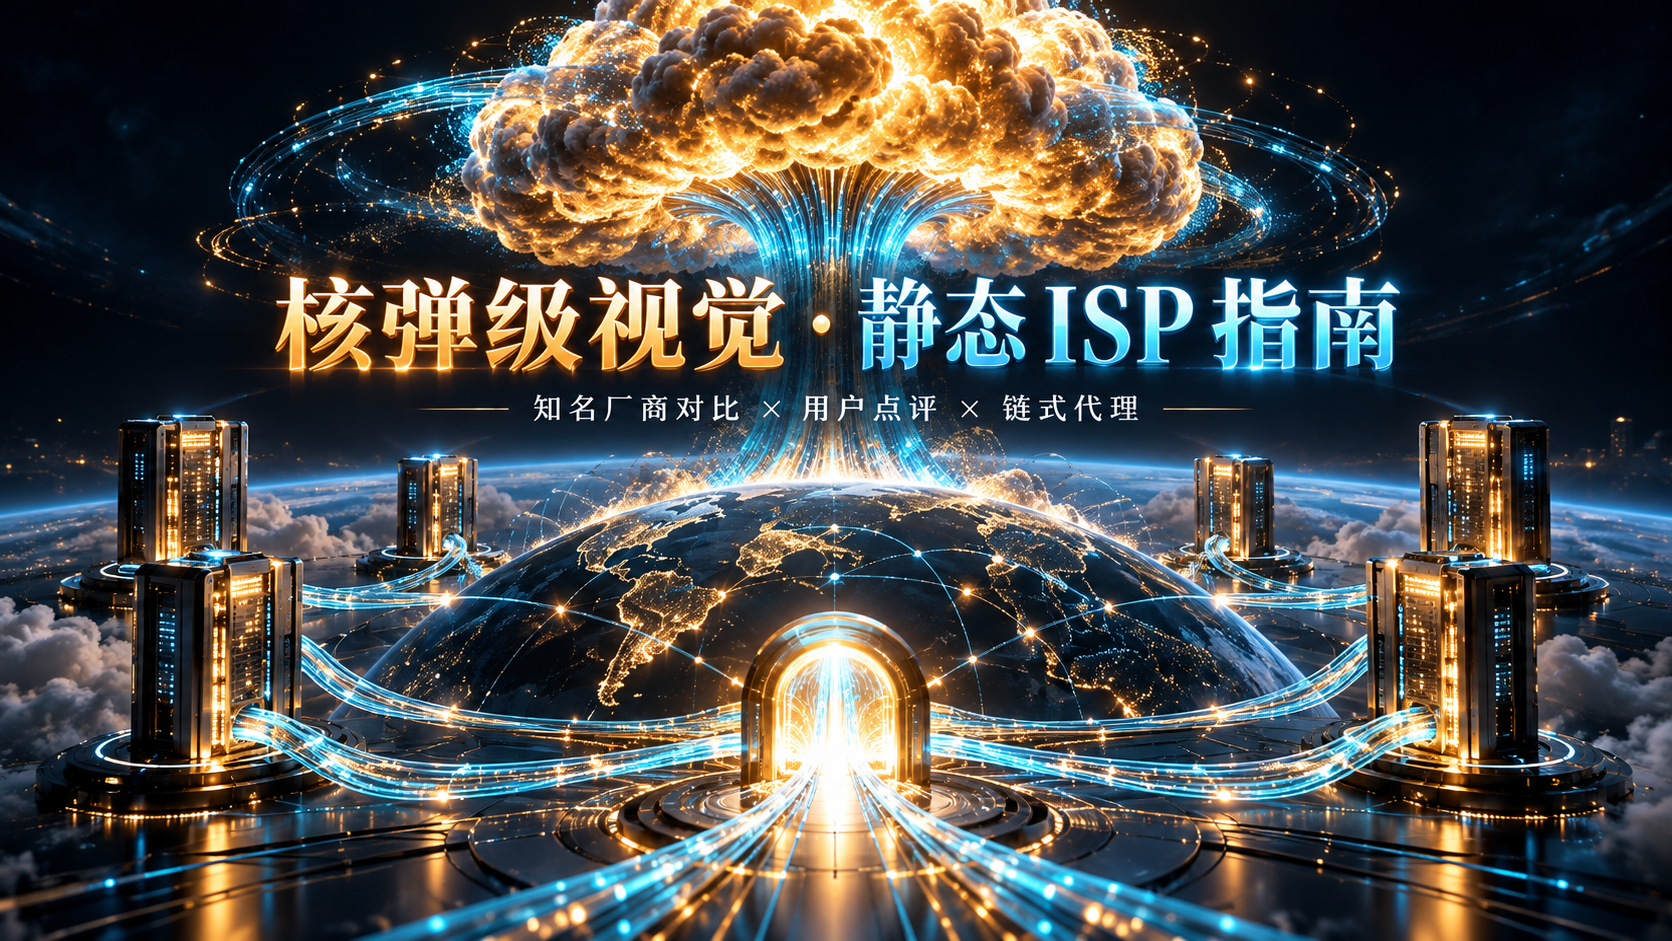
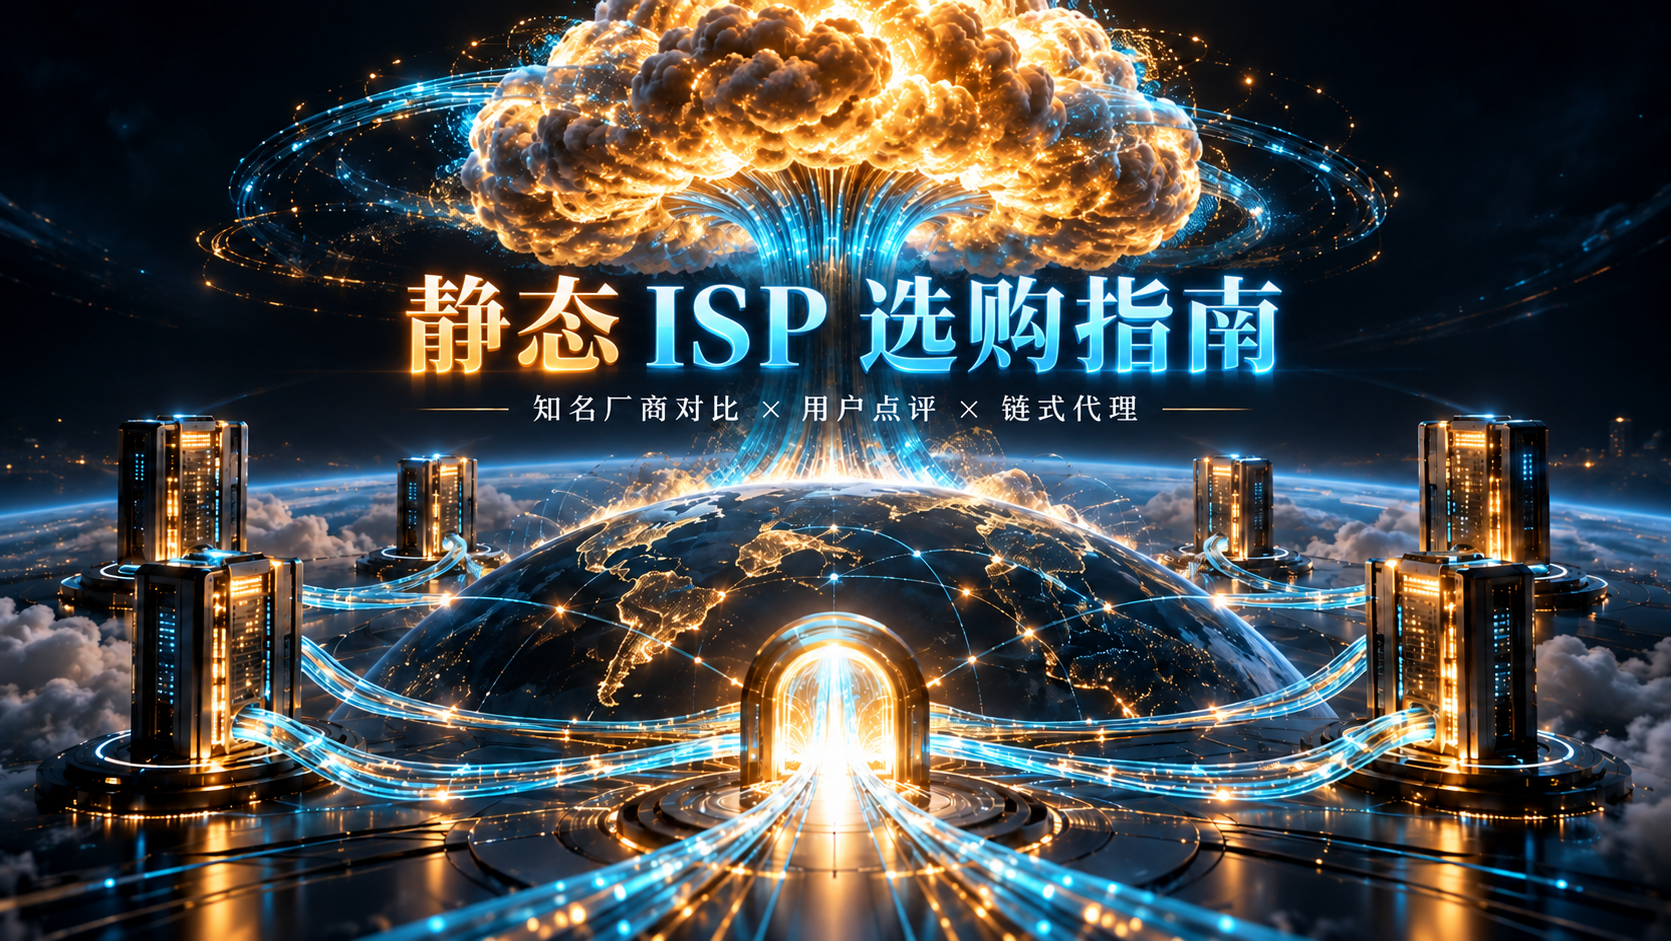
Remove literal visual slogan from title, description and cover

diff --git a/assets/PROMPTS.md b/assets/PROMPTS.md
@@ -4,7 +4,9 @@
 
 ## isp-hero.png
 
-> Use case: ads-marketing / stylized-concept. Create an original luxurious cinematic widescreen GitHub README cover for a Chinese static ISP comparison repository. Landscape 16:9. A monumental abstract digital mushroom-cloud-shaped energy bloom, symbolic nuclear-scale visual impact, made entirely of molten amber fiber-optic particles and electric cyan data ribbons above a dark obsidian holographic globe. No real weapons, no destruction, no people. Six luminous server monoliths sit around the globe linked by precise glasslike fiber cables, a single dazzling exit portal in the foreground. Ultra detailed premium 3D editorial art, volumetric light, black navy background, amber and icy cyan, spectacular but beautifully composed, high contrast, generous breathing room. Render these exact Chinese headline words legibly as a large tasteful integrated editorial title: '核弹级视觉 · 静态 ISP 指南'. Small subtitle exactly: '知名厂商对比 × 用户点评 × 链式代理'. No provider logos, no prices, no ranking numbers, no claims of safety or guaranteed speed, no watermark.
+原封面已通过内置 image_gen 编辑，当前文字为“静态 ISP 选购指南”，引用文件保持不变。修订提示词：
+
+> Edit this cover image. Replace ONLY the large central headline with the exact Chinese text '静态 ISP 选购指南', centered and using the same luxurious cyan-and-amber editorial typography. Completely remove the old headline including the old visual-style wording and the dot. Preserve the subtitle '知名厂商对比 × 用户点评 × 链式代理', original widescreen dimensions, server monoliths, globe, fiber cables, energy cloud, all colors, and polished cinematic style. No other new words, no emoji, no nuclear-related text. Make the revised headline clean and legible.
 
 ## isp-chain.png
 

diff --git a/README.md b/README.md
@@ -1,12 +1,12 @@
-# 💥 核弹级视觉！2026 静态 ISP 六大厂商对比与链式代理指南
+# 2026 静态 ISP 推荐｜六大知名厂商、用户点评与链式代理配置
 
 ![数字能量爆发、服务器与光纤网络组成的静态 ISP 指南封面](assets/isp-hero.png)
 
 <p align="center"><strong>六大知名商家 · 单 IP 月付 · 真实来源点评 · Clash Verge 链式配置</strong></p>
 
-**把眼花缭乱的 ISP 宣传页摊开：价格门槛、独享真假、流量限制、用户吐槽，一页看清。** 再用一条便宜且可用的入口线路，把需要固定出口的流量交给独享静态 ISP。
+**从几美元月付到企业级套餐，把静态 ISP 的价格门槛、独享区别、流量限制和用户吐槽一次讲透。** 六家主流厂商放在一起比较，再搭配便宜且可用的入口线路，让固定出口配置从购买到上手都有章可循。
 
-适合想买 **1 个 IP、租 1 个月**，用于网页、ChatGPT、Claude 等服务的读者。本仓库是资料整理与配置指南，没有商家线路实测。“核弹级”描述封面的视觉风格，不是速度、解锁能力或账号安全承诺。
+适合想买 **1 个 IP、租 1 个月**，用于网页、ChatGPT、Claude 等服务的读者。本仓库是资料整理与配置指南，没有商家线路实测。
 
 **配套仓库：[VPN-suggestions](https://github.com/OXWWXO/VPN-suggestions)**。入口负责接入，ISP 负责固定出口；普通流量走入口。本仓库商家入口使用官方直达链接，不加推广参数。
 
